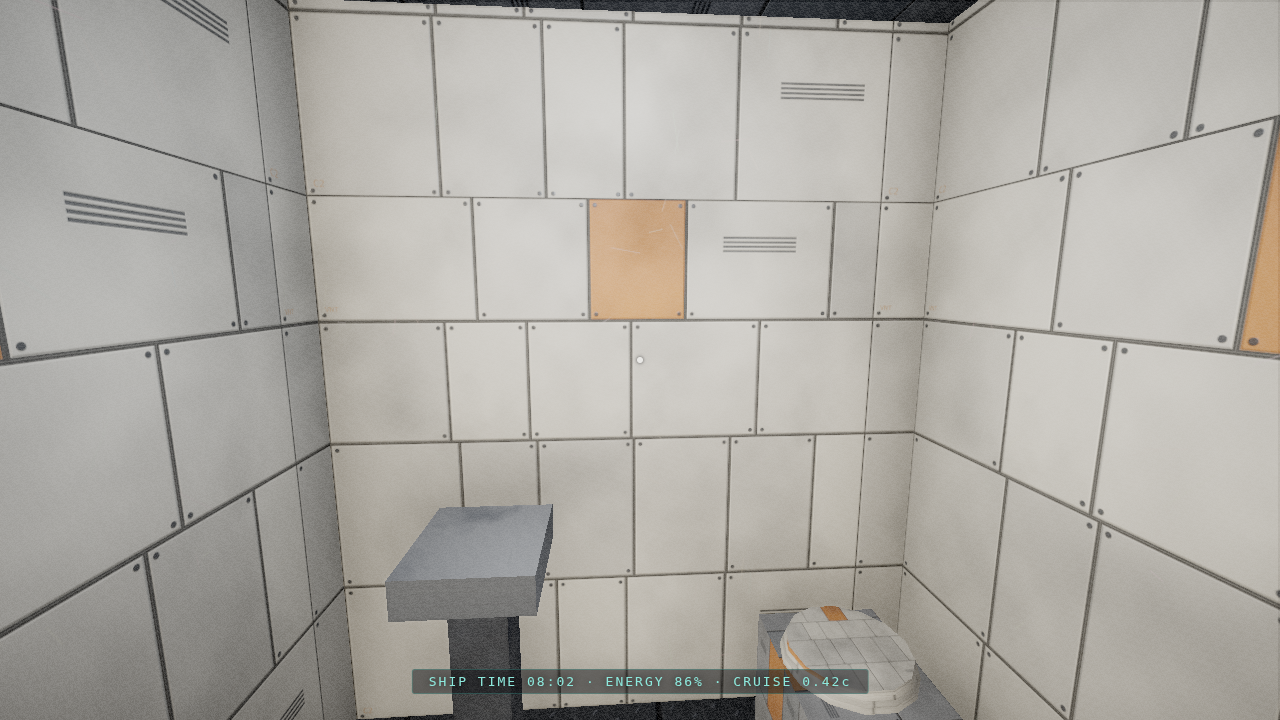
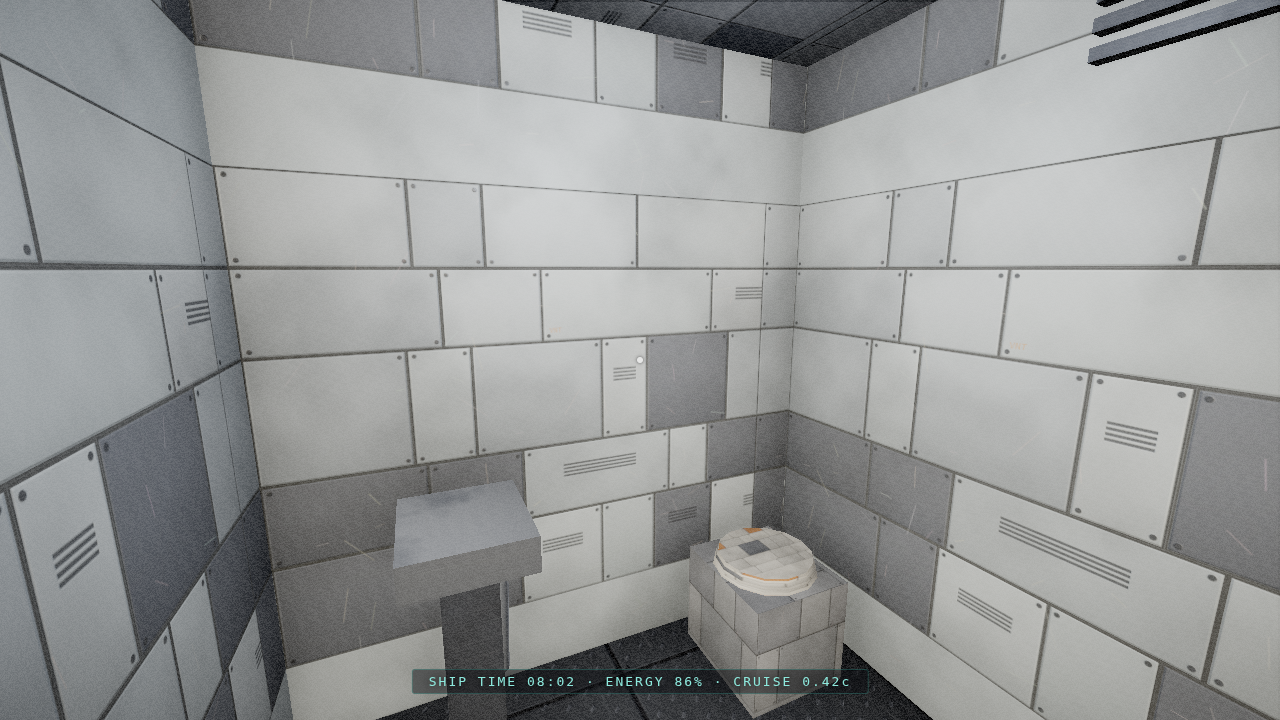
feat: dress quarters/galley/bathroom, per-room wall tints, panel variety

diff --git a/src/ship.js b/src/ship.js
@@ -498,9 +498,61 @@ export function buildShip(scene) {
   const Q = { x0: 1.4, x1: 5.4, z0: -3.5, z1: 0.5 };
   slab(3.4, -0.05, -1.5, 4.0, 0.1, 4.0, M.floor);
   slab(3.4, CEIL_H + 0.05, -1.5, 4.0, 0.1, 4.0, M.hullDark);
-  slab(Q.x1 + WALL_T / 2, CEIL_H / 2, -1.5, WALL_T, CEIL_H, 4.0, M.hull);
-  slab(3.4, CEIL_H / 2, Q.z0 - WALL_T / 2, 4.0, CEIL_H, WALL_T, M.hull);
-  slab(3.4, CEIL_H / 2, Q.z1 + WALL_T / 2, 4.0, CEIL_H, WALL_T, M.hull);
+  slab(Q.x1 + WALL_T / 2, CEIL_H / 2, -1.5, WALL_T, CEIL_H, 4.0, M.hullWarm);
+  slab(3.4, CEIL_H / 2, Q.z0 - WALL_T / 2, 4.0, CEIL_H, WALL_T, M.hullWarm);
+  slab(3.4, CEIL_H / 2, Q.z1 + WALL_T / 2, 4.0, CEIL_H, WALL_T, M.hullWarm);
+  // quarters dressing: ceiling pipe, wall poster, vents, status screen
+  {
+    const pipe = new THREE.Mesh(new THREE.CylinderGeometry(0.05, 0.05, 3.8, 10), M.metal);
+    pipe.rotation.z = Math.PI / 2;
+    pipe.position.set(3.4, CEIL_H - 0.18, Q.z0 + 0.25);
+    ship.add(pipe);
+    // poster: procedural schematic print
+    const pc = document.createElement('canvas');
+    pc.width = 256; pc.height = 384;
+    const pctx = pc.getContext('2d');
+    pctx.fillStyle = '#14202a'; pctx.fillRect(0, 0, 256, 384);
+    pctx.strokeStyle = '#e8722a'; pctx.lineWidth = 3;
+    pctx.strokeRect(10, 10, 236, 364);
+    pctx.beginPath(); pctx.arc(128, 140, 70, 0, 7); pctx.stroke();
+    pctx.beginPath(); pctx.arc(128, 140, 44, 0.5, 4); pctx.stroke();
+    pctx.strokeStyle = '#2ee8d8'; pctx.lineWidth = 2;
+    for (let i = 0; i < 5; i++) {
+      pctx.beginPath(); pctx.moveTo(30, 250 + i * 22); pctx.lineTo(120 + (i % 3) * 40, 250 + i * 22); pctx.stroke();
+    }
+    pctx.fillStyle = '#d8d4cc'; pctx.font = '22px monospace';
+    pctx.fillText('OUTER RIM', 30, 50);
+    pctx.font = '13px monospace';
+    pctx.fillText('CHARTED ROUTES K-7', 30, 70);
+    const ptex = new THREE.CanvasTexture(pc);
+    ptex.colorSpace = THREE.SRGBColorSpace;
+    const poster = new THREE.Mesh(
+      new THREE.PlaneGeometry(0.66, 1.0),
+      new THREE.MeshStandardMaterial({ map: ptex, roughness: 0.85 }),
+    );
+    poster.position.set(3.0, 1.6, Q.z0 + 0.012 - WALL_T / 2 + WALL_T / 2);
+    poster.position.z = Q.z0 + 0.01;
+    ship.add(poster);
+    // wall vents
+    for (let k = 0; k < 4; k++) {
+      const v = box(0.5, 0.04, 0.05, M.darkMetal, 1);
+      v.position.set(4.6, 2.0 + k * 0.08, Q.z1 - 0.02 - WALL_T / 2 + WALL_T / 2);
+      v.position.z = Q.z1 - 0.02;
+      ship.add(v);
+    }
+    // small status screen by the door
+    const sc = makeConsoleCanvas(91, 256, 128);
+    const sct = new THREE.CanvasTexture(sc);
+    sct.colorSpace = THREE.SRGBColorSpace;
+    const scMat = new THREE.MeshStandardMaterial({
+      map: sct, emissive: '#ffffff', emissiveMap: sct, emissiveIntensity: 1.1, roughness: 0.4,
+    });
+    regEmissive(scMat, 1.1, 0.35);
+    const screen = new THREE.Mesh(new THREE.PlaneGeometry(0.5, 0.25), scMat);
+    screen.position.set(1.48, 1.55, 0.0);
+    screen.rotation.y = Math.PI / 2;
+    ship.add(screen);
+  }
 
   // bed along the far wall
   const bed = new THREE.Group();
@@ -509,7 +561,7 @@ export function buildShip(scene) {
     frame.position.set(0, 0.16, 0); bed.add(frame);
     const mattress = box(1.94, 0.18, 0.94, M.fabric, 1);
     mattress.position.set(0, 0.41, 0); bed.add(mattress);
-    const blanket = box(1.3, 0.08, 0.96, M.fabricWarm, 1);
+    const blanket = box(1.3, 0.08, 0.96, M.fabric, 1);
     blanket.position.set(-0.3, 0.52, 0); bed.add(blanket);
     const pillow = box(0.4, 0.12, 0.6, M.fabricWarm, 2);
     pillow.position.set(0.7, 0.53, 0); bed.add(pillow);
@@ -594,28 +646,54 @@ export function buildShip(scene) {
     faucet.position.set(-4.78, 1.05, 3.7);
     faucet.rotation.y = Math.PI / 2;
     galley.add(faucet);
-    // hotplate rings (emissive)
+    // cooktop unit + hotplate rings (emissive)
+    const cooktop = box(0.55, 0.05, 1.0, M.darkMetal, 1);
+    cooktop.position.set(-4.6, 0.99, 1.9);
+    galley.add(cooktop);
     const plateMat = regEmissive(new THREE.MeshStandardMaterial({
-      color: '#170703', emissive: '#ff6a2a', emissiveIntensity: 1.6, roughness: 0.5,
-    }), 1.6, 0.2);
-    for (const dz of [1.6, 2.2]) {
-      const ring = new THREE.Mesh(new THREE.TorusGeometry(0.12, 0.025, 8, 24), plateMat);
+      color: '#170703', emissive: '#ff6a2a', emissiveIntensity: 2.2, roughness: 0.5,
+    }), 2.2, 0.2);
+    for (const dz of [1.65, 2.15]) {
+      const ring = new THREE.Mesh(new THREE.TorusGeometry(0.13, 0.028, 8, 24), plateMat);
       ring.rotation.x = Math.PI / 2;
-      ring.position.set(-4.6, 0.98, dz);
+      ring.position.set(-4.6, 1.03, dz);
       galley.add(ring);
-      const ring2 = new THREE.Mesh(new THREE.TorusGeometry(0.06, 0.02, 8, 16), plateMat);
+      const ring2 = new THREE.Mesh(new THREE.TorusGeometry(0.065, 0.022, 8, 16), plateMat);
       ring2.rotation.x = Math.PI / 2;
-      ring2.position.set(-4.6, 0.98, dz);
+      ring2.position.set(-4.6, 1.03, dz);
       galley.add(ring2);
     }
-    // overhead cabinets
-    const cab = box(0.5, 0.7, 3.0, M.hull, 1);
+    // backsplash + counter props
+    const splash = box(0.05, 0.55, 3.3, M.hullDark, 1);
+    splash.position.set(-4.95, 1.25, 2.8);
+    galley.add(splash);
+    const propDefs = [
+      [0.06, 0.18, -4.5, 2.7], [0.05, 0.13, -4.66, 2.85], [0.07, 0.22, -4.55, 3.15],
+      [0.045, 0.1, -4.7, 4.25], [0.05, 0.15, -4.45, 4.35],
+    ];
+    propDefs.forEach(([r, h, px, pz], i) => {
+      const can = new THREE.Mesh(new THREE.CylinderGeometry(r, r, h, 10), i % 2 ? M.metal : M.accent);
+      can.position.set(px, 0.98 + h / 2, pz);
+      galley.add(can);
+    });
+    // mugs on the table
+    for (const [mx, mz] of [[-2.25, 3.6], [-2.55, 3.85]]) {
+      const mug = new THREE.Mesh(new THREE.CylinderGeometry(0.04, 0.035, 0.08, 10), M.hullCool);
+      mug.position.set(mx, 0.89, mz);
+      galley.add(mug);
+    }
+    // overhead cabinets with inset doors + handles
+    const cab = box(0.5, 0.7, 3.0, M.hullDark, 1);
     cab.position.set(-4.72, 2.0, 2.8);
     galley.add(cab);
-    for (const dz of [1.6, 2.8, 4.0]) {
-      const seam = box(0.04, 0.5, 0.03, M.darkMetal, 1);
-      seam.position.set(-4.45, 2.0, dz);
-      galley.add(seam);
+    for (let i = 0; i < 4; i++) {
+      const dz = 1.45 + i * 0.72;
+      const door = box(0.03, 0.56, 0.62, i === 1 ? M.accent : M.hull, 1);
+      door.position.set(-4.45, 2.0, dz);
+      galley.add(door);
+      const handle = box(0.03, 0.12, 0.025, M.metal, 1);
+      handle.position.set(-4.42, 1.85, dz + 0.22);
+      galley.add(handle);
     }
     // under-cabinet warm strip
     const ucStrip = box(0.04, 0.04, 3.0, warmStripMat);
@@ -659,9 +737,9 @@ export function buildShip(scene) {
   const B = { x0: 1.4, x1: 3.6, z0: 3.4, z1: 5.6 };
   slab(2.5, -0.05, 4.5, 2.2, 0.1, 2.2, M.floor);
   slab(2.5, CEIL_H + 0.05, 4.5, 2.2, 0.1, 2.2, M.hullDark);
-  slab(B.x1 + WALL_T / 2, CEIL_H / 2, 4.5, WALL_T, CEIL_H, 2.2, M.hull);
-  slab(2.5, CEIL_H / 2, B.z0 - WALL_T / 2, 2.2, CEIL_H, WALL_T, M.hull);
-  slab(2.5, CEIL_H / 2, B.z1 + WALL_T / 2, 2.2, CEIL_H, WALL_T, M.hull);
+  slab(B.x1 + WALL_T / 2, CEIL_H / 2, 4.5, WALL_T, CEIL_H, 2.2, M.hullCool);
+  slab(2.5, CEIL_H / 2, B.z0 - WALL_T / 2, 2.2, CEIL_H, WALL_T, M.hullCool);
+  slab(2.5, CEIL_H / 2, B.z1 + WALL_T / 2, 2.2, CEIL_H, WALL_T, M.hullCool);
 
   const bath = new THREE.Group();
   {
@@ -688,6 +766,30 @@ export function buildShip(scene) {
     mirror.position.set(3.66, 1.55, 4.0);
     mirror.rotation.y = -Math.PI / 2;
     bath.add(mirror);
+    // mirror frame + light strip above
+    const mframe = box(0.04, 0.7, 0.55, M.darkMetal, 1);
+    mframe.position.set(3.68, 1.55, 4.0);
+    bath.add(mframe);
+    const mlight = box(0.04, 0.06, 0.5, whiteStripMat);
+    mlight.position.set(3.63, 1.95, 4.0);
+    bath.add(mlight);
+    // pipes under the sink, towel bar, vent
+    const p1 = new THREE.Mesh(new THREE.CylinderGeometry(0.025, 0.025, 0.6, 8), M.metal);
+    p1.position.set(3.42, 0.45, 4.12);
+    p1.rotation.z = 0.2;
+    bath.add(p1);
+    const towel = new THREE.Mesh(new THREE.CylinderGeometry(0.018, 0.018, 0.6, 8), M.metal);
+    towel.rotation.x = Math.PI / 2;
+    towel.position.set(1.52, 1.15, 4.9);
+    bath.add(towel);
+    const towelCloth = box(0.04, 0.42, 0.45, M.fabricWarm, 2);
+    towelCloth.position.set(1.55, 0.95, 4.9);
+    bath.add(towelCloth);
+    for (let k = 0; k < 3; k++) {
+      const v = box(0.4, 0.035, 0.05, M.darkMetal, 1);
+      v.position.set(2.3, 2.25 + k * 0.07, B.z1 - 0.02);
+      ship.add(v);
+    }
     ship.add(bath);
   }
   bath.userData = { label: 'E: Freshen Up', action: 'refresh' };
@@ -739,5 +841,6 @@ export function buildShip(scene) {
     interactables: [bed, galleyRef.group, bath],
     setRestMix,
     update,
+    probe: () => lightRegistry.slice(0, 6).map((e) => (e.light ? e.light.intensity : e.mat.emissiveIntensity)),
   };
 }

diff --git a/src/textures.js b/src/textures.js
@@ -94,22 +94,31 @@ function makePanelMaps(seed, baseColor, accentColor, accentChance) {
   r.fillStyle = '#969696'; r.fillRect(0, 0, S, S); // base roughness ~0.59
   hc.fillStyle = '#808080'; hc.fillRect(0, 0, S, S);
 
-  // panel grid with irregular sizes
-  const rows = 4;
+  // panel grid: irregular rectangles, some accent / dark-slate panels
+  const rows = 5;
   let y = 0;
   for (let ry = 0; ry < rows; ry++) {
-    const rh = (S / rows) * (0.8 + rand() * 0.4);
+    const rh = (S / rows) * (0.6 + rand() * 0.85);
     let x = 0;
     while (x < S - 8) {
-      const pw = S * (0.12 + rand() * 0.2);
-      // slight per-panel tint
-      const isAccent = rand() < accentChance;
+      const pw = S * (0.1 + rand() * 0.32);
+      const roll = rand();
+      const isAccent = roll < accentChance;
+      const isDark = !isAccent && roll < accentChance + 0.13;
       const tintShift = Math.floor((rand() - 0.5) * 16);
       if (isAccent) {
         a.fillStyle = accentColor;
+      } else if (isDark) {
+        a.fillStyle = 'rgba(58,62,70,0.92)';
       } else {
         a.fillStyle = `rgba(${tintShift > 0 ? 255 : 0},${tintShift > 0 ? 250 : 10},${tintShift > 0 ? 240 : 30},${Math.abs(tintShift) / 55})`;
       }
+      a.fillRect(x + 3, y + 3, pw - 6, rh - 6);
+      // subtle per-panel vertical shading so big walls don't read flat
+      const shade = a.createLinearGradient(0, y, 0, y + rh);
+      shade.addColorStop(0, 'rgba(255,255,255,0.05)');
+      shade.addColorStop(1, 'rgba(0,0,0,0.13)');
+      a.fillStyle = shade;
       a.fillRect(x + 3, y + 3, pw - 6, rh - 6);
       // seams: dark albedo, deep height, rough
       a.strokeStyle = 'rgba(18,16,14,0.85)'; a.lineWidth = 3;
@@ -431,6 +440,18 @@ export function createMaterials() {
   const hull = makePanelMaps(101, '#cfcabe', '#c96b2c', 0.07);
   M.hull = new THREE.MeshStandardMaterial({
     map: tex(hull.albedo, true), roughnessMap: tex(hull.rough), normalMap: tex(hull.normal),
+    roughness: 1, metalness: 0.12, normalScale: new THREE.Vector2(0.8, 0.8),
+  });
+
+  const hullWarm = makePanelMaps(115, '#c0ac8e', '#7a4a28', 0.06);
+  M.hullWarm = new THREE.MeshStandardMaterial({
+    map: tex(hullWarm.albedo, true), roughnessMap: tex(hullWarm.rough), normalMap: tex(hullWarm.normal),
+    roughness: 1, metalness: 0.12, normalScale: new THREE.Vector2(0.8, 0.8),
+  });
+
+  const hullCool = makePanelMaps(217, '#a8b4ba', '#3f7d84', 0.07);
+  M.hullCool = new THREE.MeshStandardMaterial({
+    map: tex(hullCool.albedo, true), roughnessMap: tex(hullCool.rough), normalMap: tex(hullCool.normal),
     roughness: 1, metalness: 0.12, normalScale: new THREE.Vector2(0.8, 0.8),
   });
 

diff --git a/src/main.js b/src/main.js
@@ -68,6 +68,7 @@ window.__shot = {
   setTime(t) { clock.elapsedTime = t; },
   rest(m) { ship.setRestMix(m); },
   fps() { return lastFps; },
+  probe() { return ship.probe(); },
   info() { return renderer.info.render; },
 };
 window.__ready = true;

diff --git a/PROGRESS.md b/PROGRESS.md
@@ -29,3 +29,17 @@
 - ❌ Quarters/galley/bathroom: bare white "hospital" walls, furniture sparse, hotplates invisible.
 - ❌ Panel texture reads as square bathroom tile; needs rectangular variety + dark panels.
 - ❌ Rest-cycle shot (09) looks identical to day — setRestMix may not be applying; debug.
+
+## Iteration 3 — room dressing + panel variety
+- Panel texture: rectangular variety, 13% dark-slate panels, per-panel gradient shading.
+- Per-room wall tints (quarters warm, bathroom cool). Quarters: poster, pipes, vents, status screen, teal blanket.
+- Galley: cooktop unit + glowing rings, backsplash, cabinet doors/handles, canisters, mugs.
+- Bathroom: mirror frame + light strip, under-sink pipes, towel bar, vents.
+- Rest-cycle verified working via probe (warm 2.6→0.12, teal 2.4→3.0): night shot clearly reads.
+
+### Judge notes
+- ✅ Quarters reads lived-in: poster, crates, teal bed pop against warm walls.
+- ✅ Rest cycle: dim warm + bright teal guidance — clearly distinct.
+- ❌ Galley shot framed into a wall; reframe.
+- ❌ Ceiling fixtures blow to white discs.
+- ❌ Planet bands pale, washed.
